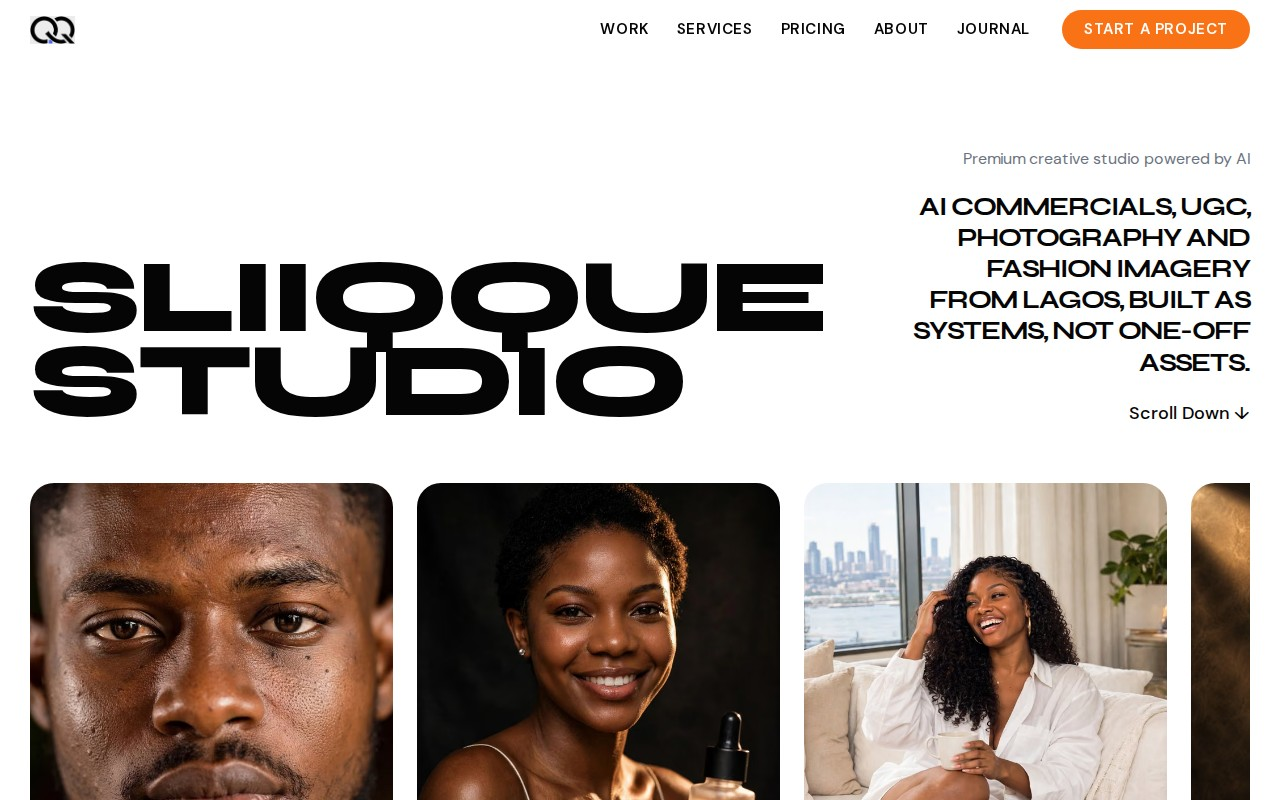
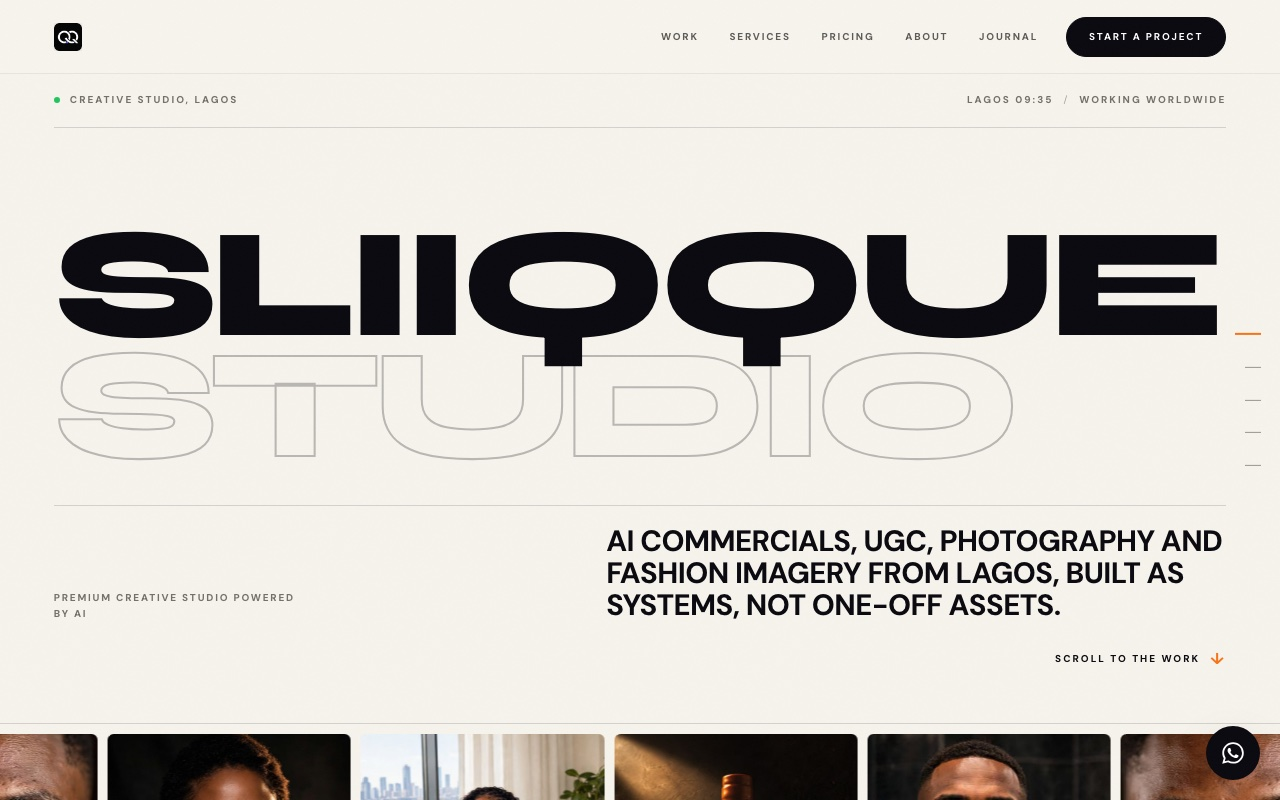
Add Leads Dashboard case study, refresh images and tighten SEO metadata
- Add internal-only Leads Dashboard case study (no external link) as the 4th
  project, with a light-mode Leads page screenshot built from fictional data
- Show every image in full color on load (remove grayscale and hover reveal)
- Refresh the Creative Studio screenshot from the redesigned live site
- Use the AI avatar for the Studio page founder image and its share image
- Add og:url to every page, fix the duplicated Studio title, trim two
  article titles to 60 characters or fewer, lengthen short descriptions
- Support a missing hero image in CaseStudyLayout

diff --git a/src/app/work/leads-dashboard/CaseStudyClient.tsx b/src/app/work/leads-dashboard/CaseStudyClient.tsx
@@ -1,0 +1,72 @@
+"use client";
+
+import React from "react";
+import CaseStudyLayout from "@/components/layout/CaseStudyLayout";
+
+const caseStudy = {
+  clientType: "Sales Operations (In-House)",
+  year: "2026",
+  engagementType: "Internal Tool",
+  stack: ["Next.js 15", "React 19", "TypeScript", "SQLite", "Tailwind CSS", "Resend", "WhatsApp Cloud API", "Zod"],
+  context: `Leads Dashboard is the sales desk SLIIQQUE built for itself. It is an internal, login-gated web app where prospect sheets are imported, reviewed, pitched and tracked. It has no public URL and no external link, because it holds working sales data and is not a product we resell. This page describes how it was built and what it does. Every screenshot uses fictional businesses on a separate demo database, never real leads.
+
+It exists because prospecting sheets are generated by a separate research pipeline, and a spreadsheet is a poor place to work them. The app sits downstream of that pipeline: it never replaces the research, it gives the output a single place to be worked.`,
+  problem: `Before the dashboard, working a lead sheet meant a spreadsheet, a template pasted by hand and a side notebook. That broke in predictable ways:
+
+• No record of what was sent, to whom, or when
+• Two prospecting runs could find the same business, and nothing stopped it being pitched twice
+• No pipeline state, so "contacted", "replied" and "won" lived in memory
+• Contact details of mixed reliability looked identical, with no sign of which were unverified
+• Opt-outs had nowhere to live, so there was nothing to check before the next send
+• Brokerage and franchise pages shared domains and office phone numbers, which fooled simple duplicate checks`,
+  approach: `One rule shaped the design: a false "not contacted" is worse than having no tool at all, so every decision favours the human over the shortcut.
+
+• Preview before commit. An import shows what is new, what updates an existing lead and what is skipped before anything is written
+• Exact matches on phone, website domain and primary email, plus a fuzzy review queue that only ever suggests. Merges are a human decision, and a merge keeps the union of notes and outreach history
+• Unverified contact details are flagged as unverified and link back to their source
+• Real delivery signals from the providers instead of optimistic click logging
+• A suppression list checked before every send, single or bulk, on both channels
+• The research pipeline's scoring is imported as given, never recomputed in the app, so there is one owner for each kind of fact`,
+  whatWeBuilt: `A complete, authenticated sales desk:
+
+1. Sign-in on every route with signed, httpOnly session cookies and an Owner and Member role split
+2. CSV import with header validation, row-level errors, a preview and a recorded batch for every upload
+3. Exact and fuzzy duplicate handling, with broker-platform awareness so agents sharing a brokerage domain stay separate leads
+4. A lead list with sorting, filtering, search, saved views, tags and bulk actions, and a lead detail page with a full activity timeline
+5. A pipeline board from New through Contacted, Replied and Qualified to Won, with a reasoned Lost state
+6. A template library with merged previews, so every message is read in full before it is sent
+7. Email outreach through Resend with a delivery webhook, one personalised send per lead
+8. A WhatsApp Cloud API channel with its own delivery and opt-out webhook, plus manual deep links for one-off messages
+9. A suppression list, follow-up reminders, notes and an audit log
+10. Funnel and activity reporting, CSV export, and an in-app panel that runs the research pipeline and sends its output into the normal import preview`,
+  results: `One gated app replaces spreadsheet review, hand-pasted pitches and a side notebook
+Imports are previewed before writing, and every upload is recorded as a batch
+Exact and fuzzy duplicate detection, with broker-platform pages kept as separate leads
+Email outreach with delivery tracking, one personalised send per lead
+A WhatsApp channel built end to end, with its first live send waiting on Meta Business verification and template approval
+A suppression list checked before every single and bulk send
+Pipeline, notes, tags, reminders, saved views, funnel reporting and export in one place
+Internal only: every route needs sign-in and there is no public link`,
+  learnings: `The hardest part was not the interface, it was deciding what the tool must never do. It never auto-merges an uncertain match, never calls an address verified when it is not, and never sends without a suppression check. Writing those rules first made the rest of the build a matter of following them.
+
+The second lesson is about dependencies we do not control. WhatsApp business messaging needs a verified number and a pre-approved template before the first cold message can go out, so that channel is complete in code but honestly marked as waiting. Email carried the launch, and the app was useful from day one without waiting on a third party.`,
+};
+
+export default function CaseStudyClient() {
+  return (
+    <CaseStudyLayout
+      caseStudy={caseStudy}
+      title="Leads Dashboard"
+      description="SLIIQQUE's internal sales desk for importing prospect sheets, removing duplicates, sending pitches and tracking every lead to a result."
+      heroImage="/images/leads-dashboard-leads.jpg"
+      heroAlt="Leads Dashboard lead list in light mode with grade, signal score, contact path and stage, shown with fictional demo data"
+      heroBgColor="#0a0a0a"
+      sections={[
+        { label: "The Context", key: "context" },
+        { label: "The Problem", key: "problem" },
+        { label: "Our Approach", key: "approach" },
+        { label: "What We Built", key: "whatWeBuilt" },
+      ]}
+    />
+  );
+}

diff --git a/src/data/projects.ts b/src/data/projects.ts
@@ -93,6 +93,27 @@ export const projects: Project[] = [
     ],
   },
   {
+    title: "Leads Dashboard",
+    year: "2026",
+    clientType: "Sales Operations (In-House)",
+    engagementType: "Internal Tool",
+    description: "Our own gated sales desk: import prospect sheets, remove duplicates, pitch by email or WhatsApp, and track every lead from first touch to win. Internal to SLIIQQUE, so there is no public link.",
+    tags: ["Next.js 15", "React 19", "TypeScript", "SQLite", "Resend"],
+    metric: "Internal Tool",
+    imageSrc: "/images/leads-dashboard-leads.jpg",
+    imageAlt: "Leads Dashboard lead list in light mode with grade, signal score, contact path and stage, shown with fictional demo data",
+    href: "/work/leads-dashboard",
+    bgColor: "#0a0a0a",
+    outcomes: [
+      "One gated app replaces spreadsheet review, copy-pasted pitches and a side notebook of who was contacted",
+      "CSV import with a preview before anything is written, exact and fuzzy duplicate detection, and a human decision on every uncertain match",
+      "Real email send through Resend with delivery tracking, and a WhatsApp Cloud API channel built and waiting on Meta template approval",
+      "A suppression list checked before every single and bulk send",
+      "Pipeline board, notes, tags, reminders, saved views, funnel reporting and CSV export in one place",
+      "Internal only: sign-in is required on every route and there is no public URL",
+    ],
+  },
+  {
     title: "Real Estate",
     year: "2026",
     clientType: "Real Estate",
@@ -177,6 +198,12 @@ export const studioProjects: StudioProject[] = [
     type: "Real Estate: bilingual, compliant realtor website with Canadian calculators",
     metric: "Launch-Ready",
     link: "/work/realty-starter",
+  },
+  {
+    name: "Leads Dashboard",
+    type: "Sales Operations: internal prospecting and outreach desk",
+    metric: "Internal Tool",
+    link: "/work/leads-dashboard",
   },
   {
     name: "Real Estate",

diff --git a/src/app/studio/page.tsx b/src/app/studio/page.tsx
@@ -4,31 +4,32 @@ import { PageSchema } from "@/components/PageSchema";
 import StudioPageClient from "./StudioPageClient";
 
 export const metadata: Metadata = {
-  title: "About SLIIQQUE | Website, AI & Automation Studio",
+  title: "About the Studio: Websites, AI & Automation",
   description:
     "SLIIQQUE is a Lagos-based boutique studio building websites, AI bots and agents, workflow automation and SaaS platforms. Founded December 2025.",
   alternates: {
     canonical: "https://sliiqque.space/studio/",
   },
   openGraph: {
-    title: "About SLIIQQUE | Website, AI & Automation Studio | SLIIQQUE",
+    url: "https://sliiqque.space/studio/",
+    title: "About the Studio: Websites, AI & Automation | SLIIQQUE",
     description:
     "SLIIQQUE is a Lagos-based boutique software studio building high-performance websites, AI bots and agents, workflow automation systems, and SaaS platforms, founded by engineers who ship.",
     images: [
       {
-        url: "https://sliiqque.space/og-image.jpg",
-        width: 1200,
-        height: 630,
-        alt: "SLIIQQUE Studio",
+        url: "https://sliiqque.space/images/gabriel-ai-avatar.jpg",
+        width: 640,
+        height: 640,
+        alt: "Gabriel Njoabozia, founder and lead engineer at SLIIQQUE"
       },
     ],
   },
   twitter: {
     card: "summary_large_image",
-    title: "About SLIIQQUE | Website, AI & Automation Studio | SLIIQQUE",
+    title: "About the Studio: Websites, AI & Automation | SLIIQQUE",
     description:
       "Lagos-based boutique software studio building high-performance websites, AI bots, automation systems, and SaaS platforms.",
-    images: ["https://sliiqque.space/og-image.jpg"],
+    images: ["https://sliiqque.space/images/gabriel-ai-avatar.jpg"],
   },
 };
 

diff --git a/src/app/insights/framer-motion-guide/page.tsx b/src/app/insights/framer-motion-guide/page.tsx
@@ -4,15 +4,16 @@ import { PageSchema } from "@/components/PageSchema";
 import ArticleClient from "./ArticleClient";
 
 export const metadata: Metadata = {
-  title: "Why We Use Framer Motion for Production Animations",
+  title: "Why We Use Framer Motion in Production",
   description:
     "A practical look at building production-grade animations with Framer Motion, from micro-interactions and gesture UI to page transitions and layout animations.",
   alternates: {
     canonical: "https://sliiqque.space/insights/framer-motion-guide/",
   },
   openGraph: {
+    url: "https://sliiqque.space/insights/framer-motion-guide/",
     type: "article",
-    title: "Why We Use Framer Motion for Production Animations | SLIIQQUE",
+    title: "Why We Use Framer Motion in Production | SLIIQQUE",
     description:
       "A practical look at building production-grade animations with Framer Motion, from micro-interactions and gesture UI to page transitions and layout animations.",
     images: [
@@ -20,13 +21,13 @@ export const metadata: Metadata = {
         url: "https://sliiqque.space/images/insights/framer-motion.jpg",
         width: 1920,
         height: 1280,
-        alt: "Why We Use Framer Motion for Production Animations",
+        alt: "Why We Use Framer Motion in Production",
       },
     ],
   },
   twitter: {
     card: "summary_large_image",
-    title: "Why We Use Framer Motion for Production Animations | SLIIQQUE",
+    title: "Why We Use Framer Motion in Production | SLIIQQUE",
     description:
       "Production-grade animations with Framer Motion, from micro-interactions to page transitions.",
     images: ["https://sliiqque.space/images/insights/framer-motion.jpg"],

diff --git a/src/components/layout/CaseStudyLayout.tsx b/src/components/layout/CaseStudyLayout.tsx
@@ -29,7 +29,8 @@ interface CaseStudyLayoutProps {
   caseStudy: CaseStudyData;
   title: string;
   description: string;
-  heroImage: string;
+  /** Omit for work with no public screenshot, such as internal tools. */
+  heroImage?: string;
   heroAlt: string;
   heroBgColor?: string;
   externalUrl?: { url: string; label: string } | null;
@@ -156,15 +157,29 @@ export default function CaseStudyLayout({
             className="aspect-[8/5] rounded-[2px] overflow-hidden"
             style={{ backgroundColor: heroBgColor }}
           >
-            <Image
-              src={heroImage}
-              alt={heroAlt}
-              width={1280}
-              height={800}
-              className="w-full h-full object-cover grayscale"
-              sizes="100vw"
-              loading="lazy"
-            />
+            {heroImage ? (
+              <Image
+                src={heroImage}
+                alt={heroAlt}
+                width={1280}
+                height={800}
+                className="w-full h-full object-cover"
+                sizes="100vw"
+                loading="lazy"
+              />
+            ) : (
+              <div
+                role="img"
+                aria-label={heroAlt}
+                className="w-full h-full flex items-center justify-center overflow-hidden"
+              >
+                <InteractiveTitle
+                  title={title}
+                  className="font-display font-bold leading-none tracking-tighter uppercase"
+                  spanClassName="text-5xl md:text-7xl lg:text-8xl"
+                />
+              </div>
+            )}
           </div>
         </div>
       </section>

diff --git a/src/app/insights/nextauth-authentication/page.tsx b/src/app/insights/nextauth-authentication/page.tsx
@@ -4,12 +4,13 @@ import { PageSchema } from "@/components/PageSchema";
 import ArticleClient from "./ArticleClient";
 
 export const metadata: Metadata = {
-  title: "Building an Authentication System with NextAuth.js",
+  title: "Authentication in Next.js with NextAuth.js",
   description:
     "A practical guide to full authentication in Next.js with NextAuth.js, covering email, OAuth providers, session management, and middleware route protection.",
   openGraph: {
+    url: "https://sliiqque.space/insights/nextauth-authentication/",
     type: "article",
-    title: "Building an Authentication System with NextAuth.js | SLIIQQUE",
+    title: "Authentication in Next.js with NextAuth.js | SLIIQQUE",
     description:
     "A practical guide to full authentication in Next.js with NextAuth.js, covering email, OAuth providers, session management, and middleware route protection.",
     images: [
@@ -17,7 +18,7 @@ export const metadata: Metadata = {
         url: "https://sliiqque.space/images/insights/nextauth-auth.jpg",
         width: 1920,
         height: 1280,
-        alt: "Building an Authentication System with NextAuth.js",
+        alt: "Authentication in Next.js with NextAuth.js",
       },
     ],
   },
@@ -26,7 +27,7 @@ export const metadata: Metadata = {
   },
   twitter: {
     card: "summary_large_image",
-    title: "Building an Authentication System with NextAuth.js | SLIIQQUE",
+    title: "Authentication in Next.js with NextAuth.js | SLIIQQUE",
     description:
       "A practical guide to implementing full authentication in Next.js with NextAuth.js.",
     images: ["https://sliiqque.space/images/insights/nextauth-auth.jpg"],

diff --git a/src/app/work/leads-dashboard/page.tsx b/src/app/work/leads-dashboard/page.tsx
@@ -1,0 +1,43 @@
+import { Metadata } from "next";
+import { PageLayout } from "@/components/layout/PageLayout";
+import { PageSchema } from "@/components/PageSchema";
+import CaseStudyClient from "./CaseStudyClient";
+
+export const metadata: Metadata = {
+  title: "Leads Dashboard Case Study: Internal Sales Desk",
+  description:
+    "Case study: SLIIQQUE's internal, login-gated sales desk for importing prospect sheets, removing duplicates, sending pitches and tracking every lead.",
+  openGraph: {
+    url: "https://sliiqque.space/work/leads-dashboard/",
+    title: "Leads Dashboard Case Study | SLIIQQUE",
+    description:
+      "An internal sales desk with CSV import, duplicate review, email and WhatsApp outreach, a suppression list and a lead pipeline.",
+    images: [
+      {
+        url: "https://sliiqque.space/images/leads-dashboard-leads.jpg",
+        width: 1600,
+        height: 1000,
+        alt: "Leads Dashboard lead list with grade, signal score, contact path and stage, shown with fictional demo data",
+      },
+    ],
+  },
+  alternates: {
+    canonical: "https://sliiqque.space/work/leads-dashboard/",
+  },
+  twitter: {
+    card: "summary_large_image",
+    title: "Leads Dashboard Case Study | SLIIQQUE",
+    description:
+      "How SLIIQQUE built its own gated sales desk, from CSV import and dedup to outreach and pipeline tracking.",
+    images: ["https://sliiqque.space/images/leads-dashboard-leads.jpg"],
+  },
+};
+
+export default function LeadsDashboardPage() {
+  return (
+    <PageLayout>
+      <PageSchema path="/work/leads-dashboard/" />
+      <CaseStudyClient />
+    </PageLayout>
+  );
+}

diff --git a/src/components/sections/InsightsSection.tsx b/src/components/sections/InsightsSection.tsx
@@ -45,7 +45,7 @@ const ArticleCard = ({
             alt={title}
             width={600}
             height={338}
-            className="w-full aspect-video object-cover transition-all duration-700 ease-out group-hover:scale-110 group-hover:grayscale-0 grayscale-[80%]"
+            className="w-full aspect-video object-cover transition-all duration-700 ease-out group-hover:scale-110"
             sizes="(max-width: 768px) 100vw, 600px"
             loading="lazy"
           />
@@ -173,7 +173,7 @@ const FeaturedArticle = ({
             alt={title}
             width={1200}
             height={514}
-            className="w-full h-full aspect-video md:aspect-[21/9] object-cover transition-all duration-700 ease-out group-hover:scale-[1.05] grayscale-[80%] group-hover:grayscale-0 md:grayscale-0"
+            className="w-full h-full aspect-video md:aspect-[21/9] object-cover transition-all duration-700 ease-out group-hover:scale-[1.05]"
             sizes="(max-width: 768px) 100vw, 800px"
             priority
           />

diff --git a/src/app/insights/page.tsx b/src/app/insights/page.tsx
@@ -6,11 +6,12 @@ import InsightsPageClient from "./InsightsPageClient";
 export const metadata: Metadata = {
   title: "Insights: Web Dev, AI Agents & Automation",
   description:
-    "Technical articles on website development, AI bots and agents, workflow automation, frontend engineering and SaaS architecture.",
+    "Technical articles from SLIIQQUE on website development, AI bots and agents, workflow automation, frontend engineering and SaaS architecture, written from shipped work.",
   alternates: {
     canonical: "https://sliiqque.space/insights/",
   },
   openGraph: {
+    url: "https://sliiqque.space/insights/",
     title: "Insights: Web Dev, AI Agents & Automation Articles | SLIIQQUE",
     description:
       "Technical articles and thought leadership on website development, AI bots and agents, workflow automation, frontend engineering, and SaaS architecture, written by the team at SLIIQQUE Studio.",

diff --git a/src/app/work/page.tsx b/src/app/work/page.tsx
@@ -6,11 +6,12 @@ import WorkPageClient from "./WorkPageClient";
 export const metadata: Metadata = {
   title: "Our Work: Websites, AI Bots & SaaS Projects",
   description:
-    "Selected projects from SLIIQQUE: Real Estate, Lumia payments, Mo Touch and ZINID fraud prevention.",
+    "Selected projects from SLIIQQUE: Creative Studio, Lumia payments, Realty Starter, our internal Leads Dashboard, Real Estate, ZINID fraud prevention and Mo Touch.",
   alternates: {
     canonical: "https://sliiqque.space/work/",
   },
   openGraph: {
+    url: "https://sliiqque.space/work/",
     title: "Our Work | Websites, AI Bots & Automation Projects | SLIIQQUE",
     description:
     "Browse our portfolio of websites, AI bots and agents, workflow automation systems, and SaaS platforms, each project built with craft, precision, and measurable impact for founders and businesses worldwide.",

diff --git a/src/app/work/zinid/page.tsx b/src/app/work/zinid/page.tsx
@@ -6,8 +6,9 @@ import CaseStudyClient from "./CaseStudyClient";
 export const metadata: Metadata = {
   title: "ZINID: Africa's Fraud Prevention Infrastructure",
   description:
-    "Case study: Africa's shared fraud prevention platform with digital identity, real-time risk scoring and AML compliance.",
+    "Case study: ZINID, Africa's shared fraud prevention platform, with digital identity, real-time risk scoring, transaction monitoring and CBN-aligned AML compliance.",
   openGraph: {
+    url: "https://sliiqque.space/work/zinid/",
     title: "ZINID Case Study | SLIIQQUE",
     description:
       "Africa's fraud prevention infrastructure with digital identity, real-time risk scoring, and shared intelligence across the Nigerian fintech ecosystem.",

diff --git a/src/app/work/real-estate/page.tsx b/src/app/work/real-estate/page.tsx
@@ -6,8 +6,9 @@ import CaseStudyClient from "./CaseStudyClient";
 export const metadata: Metadata = {
   title: "Real Estate CMS Platform Case Study",
   description:
-    "Case study: a property website with a built-in CMS for searchable listings, agent profiles, articles and enquiry capture.",
+    "Case study: a property website with a built-in CMS for searchable listings, agent profiles, articles and enquiry capture, all edited from one admin panel with no redeploys.",
   openGraph: {
+    url: "https://sliiqque.space/work/real-estate/",
     title: "Real Estate Case Study | SLIIQQUE",
     description:
       "A property website with a built-in CMS for listings, agents, articles, and enquiries, managed from one admin panel.",
